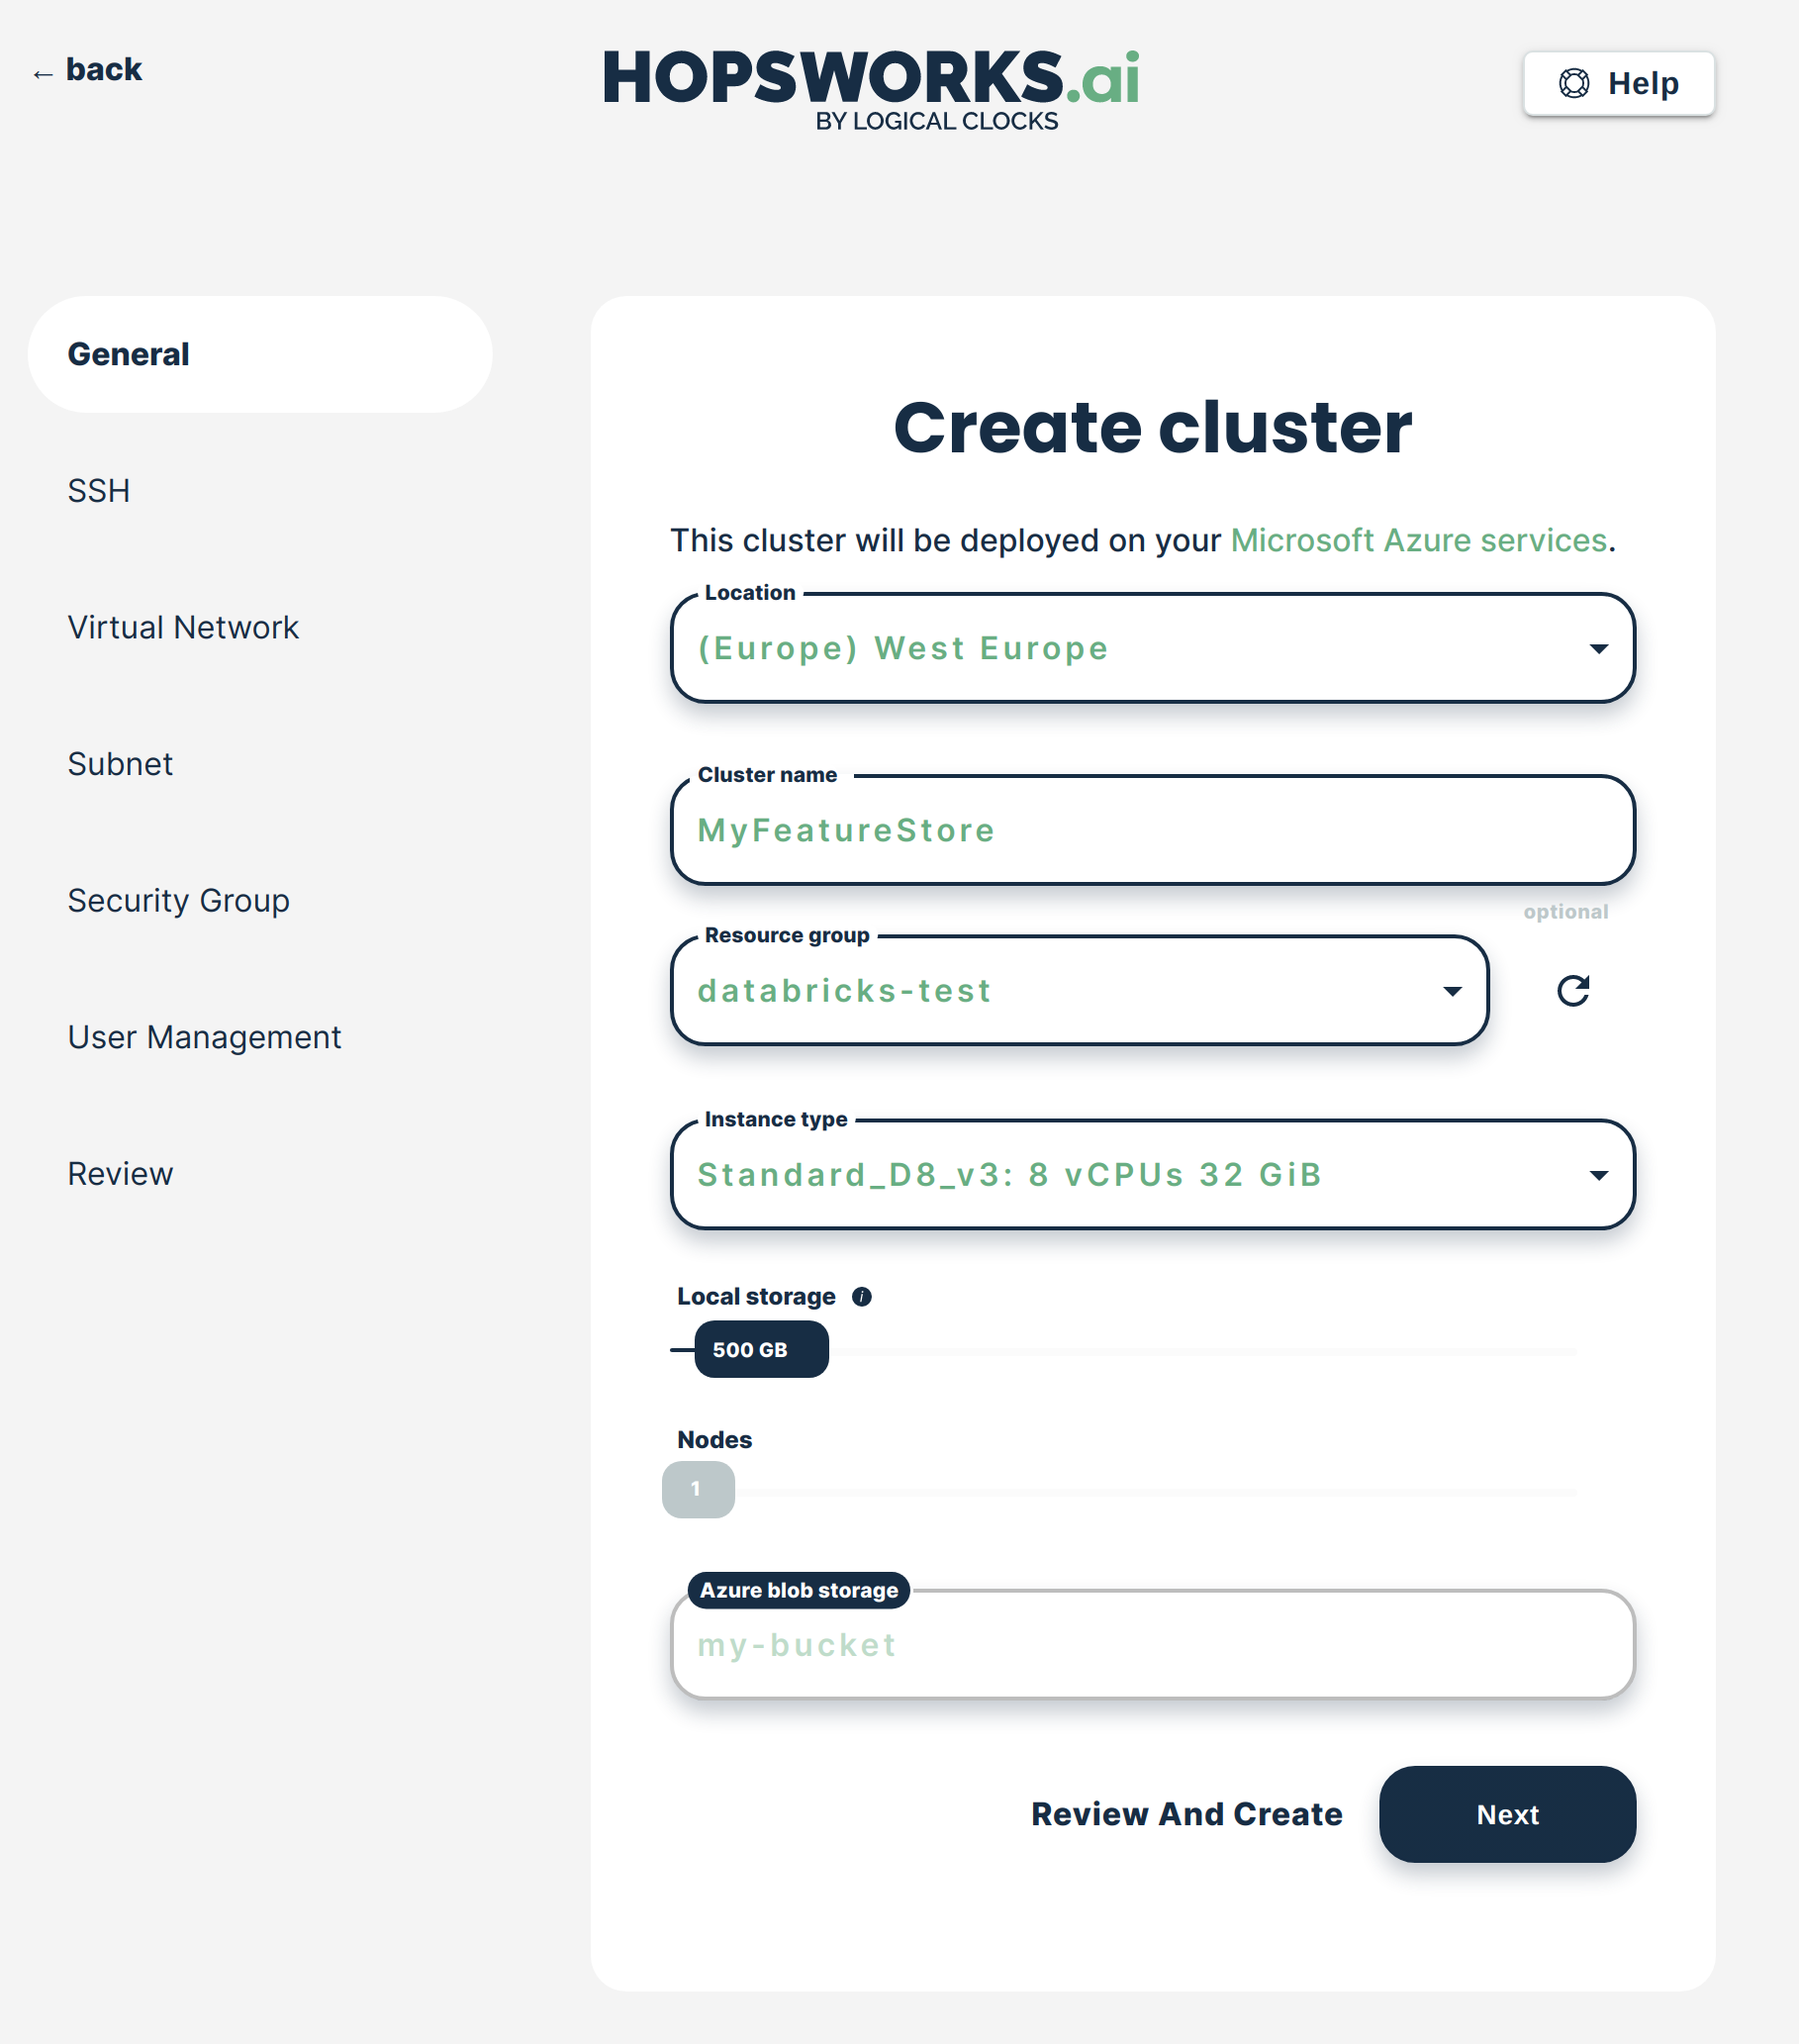
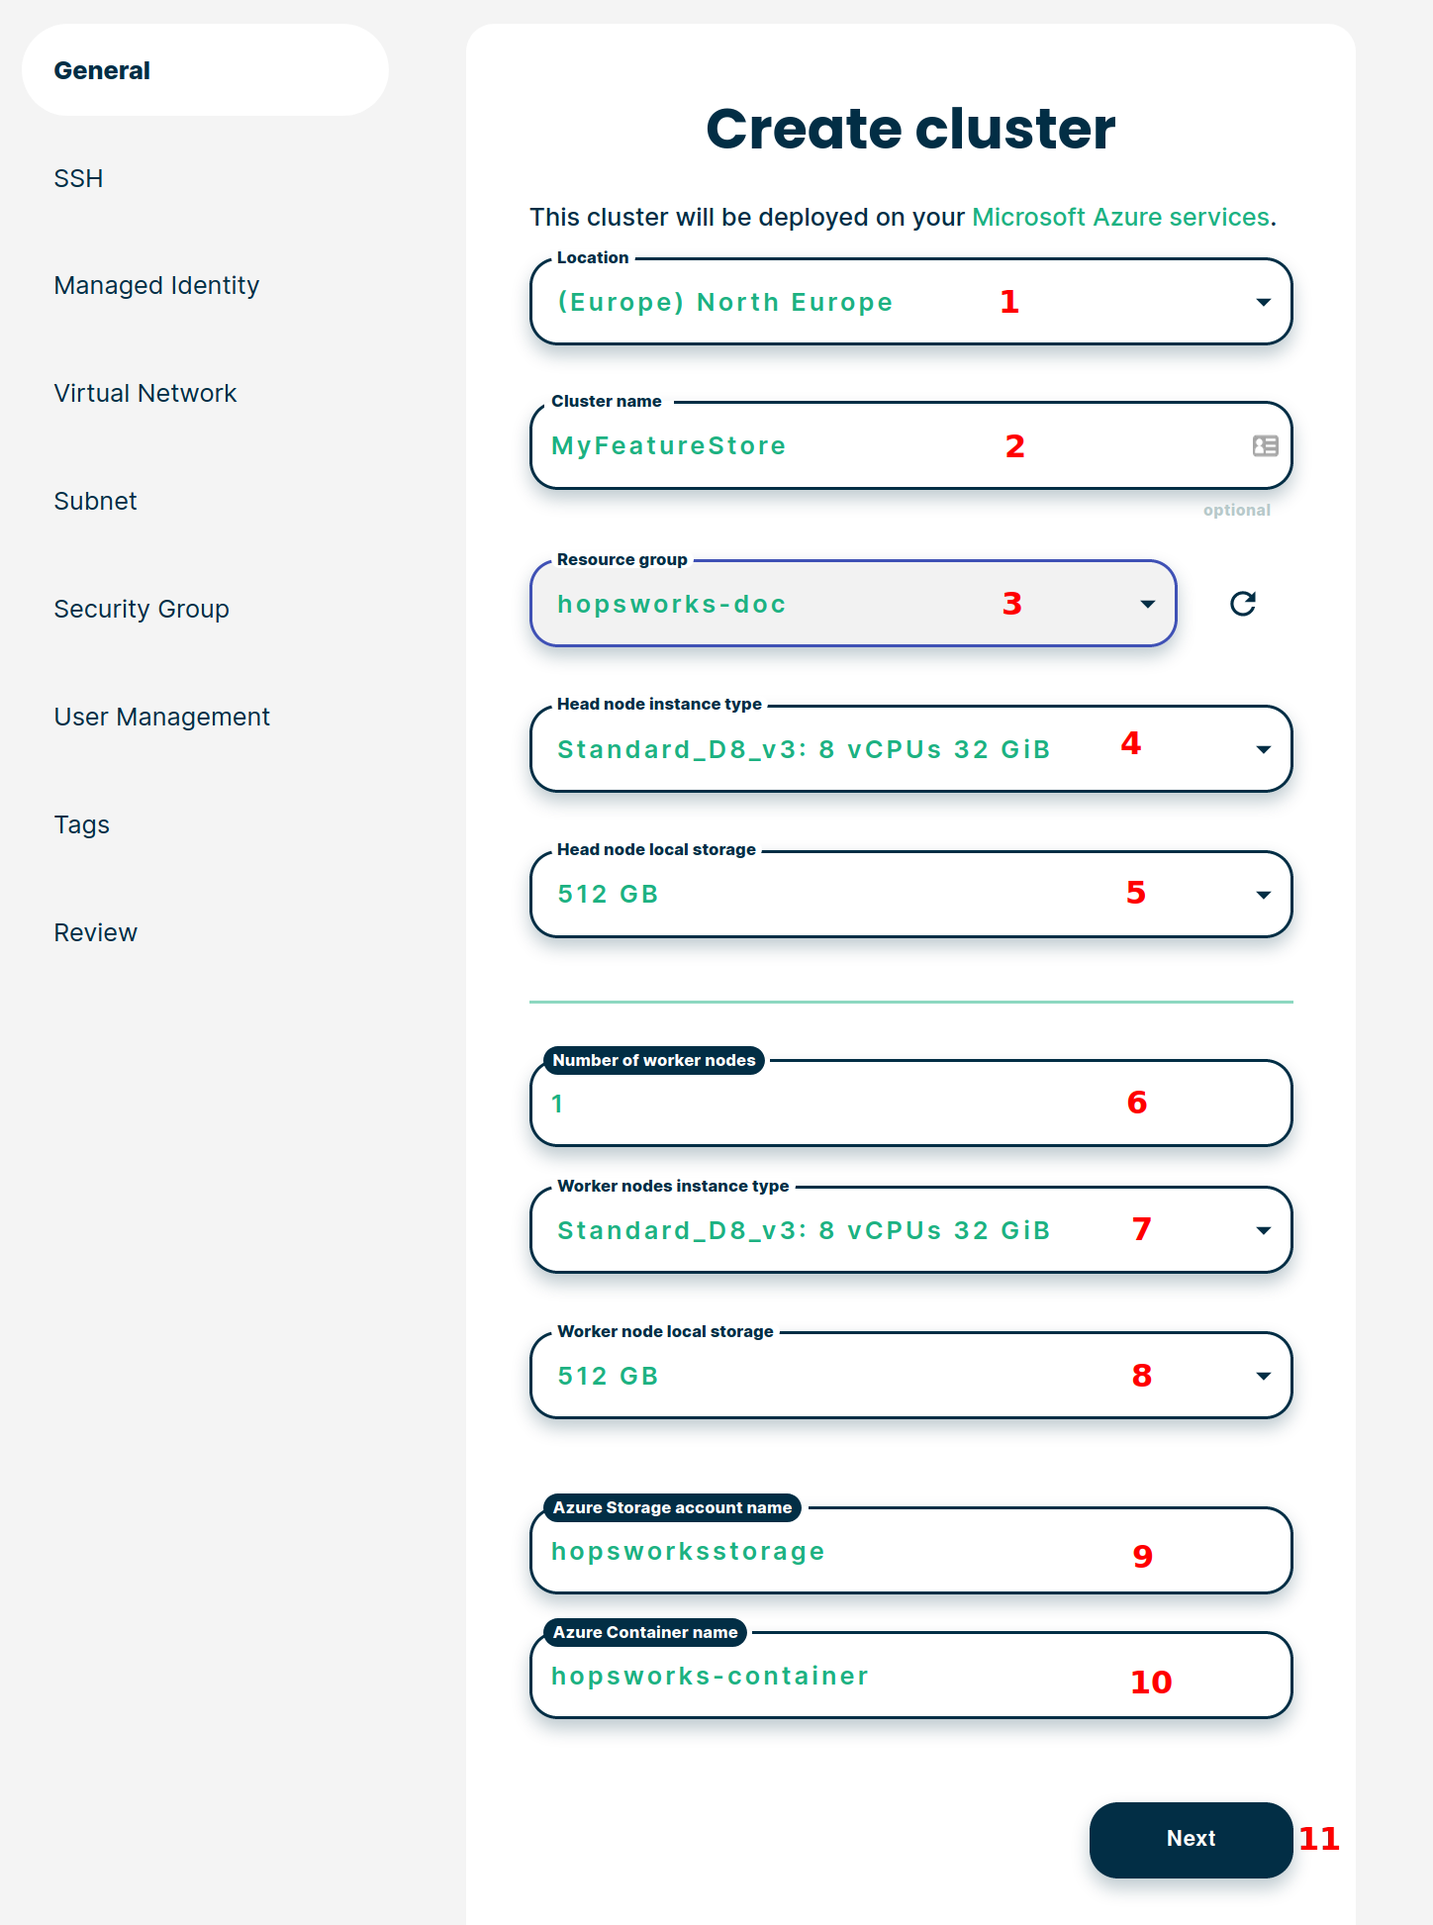
fix getting started for Azure

diff --git a/docs/getting_started/hopsworksai/guides/getting_started_azure.rst b/docs/getting_started/hopsworksai/guides/getting_started_azure.rst
@@ -10,7 +10,7 @@ SageMaker and KubeFlow. This guide shows how to set up Hopsworks.ai with your or
 .. contents:: :local:
 
 Step 1: Connecting your Azure account
------------------------------------
+-------------------------------------
 
 Hopsworks.ai deploys Hopsworks clusters to your Azure account. To enable this, you have to
 create a service principal and a custom role for Hopsworks.ai granting access
@@ -173,7 +173,86 @@ Congratulations, you have successfully connected you Azure account to Hopsworks.
     :align: center
     :figclass: align-center
 
-Step 2: Deploying a Hopsworks cluster
+Step 2: Creating and configuring a storage
+------------------------------------------
+The hopsworks clusters deployed by hopsworks.ai store their data in a container in your Azure accoutn.
+To enable this you need to create a storage account and a User Assigned Managed Identity to give the hopsworks cluster access to the storage.
+
+Step 2.1: Creating a User Assigned Managed Identity
+~~~~~~~~~~~~~~~~~~~~~~~~~~~~~~~~~~~~~~~~~~~~~~~~~~~
+Proceed to the Azure Portal and open the Resource Group that you want to use for Hopsworks.ai. Click on *Add*.
+
+.. _add-to-resource-group.png: ../../../_images/add-to-resource-group.png
+.. figure:: ../../../imgs/hopsworksai/add-to-resource-group.png
+    :alt: Add to resource group.
+    :target: `add-to-resource-group.png`_
+    :align: center
+    :figclass: align-center
+    :borderWidth: 0.5
+    :borderColor:"black"
+
+
+Search for *User Assigned Managed Identity* and click on it.
+
+.. _search-user-assigned-identity.png: ../../../_images/search-user-assigned-identity.png
+.. figure:: ../../../imgs/hopsworksai/search-user-assigned-identity.png
+    :alt: Search User Assigned Managed Identity.
+    :target: `search-user-assigned-identity.png`_
+    :align: center
+    :figclass: align-center
+
+Click on *Create*. Then, select the Location you want to use and give a name to the identity. Click on *Review + create*. Finally click on *Create*.
+
+.. _create-user-assigned-identity.png: ../../../_images/create-user-assigned-identity.png
+.. figure:: ../../../imgs/hopsworksai/create-user-assigned-identity.png
+    :alt: Create a User Assigned Managed Identity.
+    :target: `create-user-assigned-identity.png`_
+    :align: center
+    :figclass: align-center
+
+Step 2.2: Creating a Storage account
+~~~~~~~~~~~~~~~~~~~~~~~~~~~~~~~~~~~~
+Proceed to the Azure Portal and open the Resource Group that you want to use for Hopsworks.ai. Click on *Add*.
+
+.. _add-to-resource-group2.png: ../../../_images/add-to-resource-group.png
+.. figure:: ../../../imgs/hopsworksai/add-to-resource-group.png
+    :alt: Add to resource group.
+    :target: `add-to-resource-group.png`_
+    :align: center
+    :figclass: align-center
+
+Search for *Storage account* and click on it.
+
+.. _search-storage-account.png: ../../../_images/search-storage-account.png
+.. figure:: ../../../imgs/hopsworksai/search-user-assigned-identity.png
+    :alt: Search Storage Account Identity.
+    :target: `search-storage-account.png`_
+    :align: center
+    :figclass: align-center
+
+Click on *Create*. Then, give a name to your storage account, select the Location you want to use and click on *Review + create*. Finally click on *Create*.
+
+.. _create-storage-account.png: ../../../_images/create-storage-account.png
+.. figure:: ../../../imgs/hopsworksai/create-storage-account.png
+    :alt: Create a Storage Account.
+    :target: `create-storage-account.png`_
+    :align: center
+    :figclass: align-center
+
+Step 2.3: Give the Managed Identity access to the storage
+~~~~~~~~~~~~~~~~~~~~~~~~~~~~~~~~~~~~~~~~~~~~~~~~~~~~~~~~~
+Proceed to the Storage Account you just created and click on *Access Control (IAM)* (1). Click on *Add* (2), then click on *Add role assignment* (3).
+In *Role* select *Storage Blob Data Owner* (4). In *Assign access to* select *User assigned managed identity* (5). Select the identity you created in step 2.1 (6).
+Click on *Save* (7).
+
+.. _add-role-to-storage.png: ../../../_images/add-role-to-storage.png
+.. figure:: ../../../imgs/hopsworksai/add-role-to-storage.png
+    :alt: Add role assignment to strage.
+    :target: `add-role-to-storage.png`_
+    :align: center
+    :figclass: align-center
+
+Step 3: Deploying a Hopsworks cluster
 -------------------------------------
 
 In Hopsworks.ai, select *Create cluster*:
@@ -185,7 +264,22 @@ In Hopsworks.ai, select *Create cluster*:
     :align: center
     :figclass: align-center
 
-Select the *Location*, *Resource Group*, *Instance type* and *Local storage* size, name the cluster and press *Next*:
+Select the *Location* in which you want your cluster to run (1), name your cluster (2) and select the *Resource Group* (3) in which you created your *storage account* and *user assigned managed identity* (see above).
+
+Select the *Instance type* (4) and *Local storage* (5) size for the cluster *Head node*. 
+
+Select the number of workers you want to start the cluster with (6).
+Select the *Instance type* (7) and *Local storage* size (8) for the *worker nodes*.
+
+.. note::
+    It is possible to add or remove workers once the cluster is running.
+
+Enter the name of the *storage account* (9) you created above in *Azure Storage account name* and give a name to the container in which the data wil be stored in *Azure Container name* (10).
+
+.. note::
+    You can choose to use a container already existing in you *storage account* by using the name of this container, but you need to fist make sure that this container is empty.
+
+Press *Next* (11):
 
 .. _connect-azure-11.png: ../../../_images/connect-azure-11.png
 .. figure:: ../../../imgs/hopsworksai/connect-azure-11.png
@@ -194,12 +288,21 @@ Select the *Location*, *Resource Group*, *Instance type* and *Local storage* siz
     :align: center
     :figclass: align-center
 
-Select the *SSH* that you want to use to access cluster instances:
+Select the *SSH key* that you want to use to access cluster instances:
 
 .. _connect-azure-12.png: ../../../_images/connect-azure-12.png
 .. figure:: ../../../imgs/hopsworksai/connect-azure-12.png
     :alt: Choose SSH key
     :target: `connect-azure-12.png`_
+    :align: center
+    :figclass: align-center
+
+Select the *User assigned managed identity* that you created above:
+
+.. _connect-azure-identity.png: ../../../_images/connect-azure-identity.png
+.. figure:: ../../../imgs/hopsworksai/connect-azure-identity.png
+    :alt: Choose the User assigned managed identity.
+    :target: `connect-azure-identity.png`_
     :align: center
     :figclass: align-center
 
@@ -231,7 +334,7 @@ Select the *Security group* or choose to automatically create a new one:
     :figclass: align-center
 
 Choose the user management you want. Select *Managed* to manage users via Hopsworks.ai, *LDAP* to integrate with your
-organization's LDAP or *Disabled* to manage users manually from within Hopsworks:
+organization's LDAP/ActiveDirectory server or *Disabled* to manage users manually from within Hopsworks:
 
 .. _connect-azure-16.png: ../../../_images/connect-azure-16.png
 .. figure:: ../../../imgs/hopsworksai/connect-azure-16.png
@@ -249,7 +352,7 @@ Review all information and select *Create*:
     :align: center
     :figclass: align-center
 
-The cluster will start. This might take a couple of minutes:
+The cluster will start. This will take a few minutes:
 
 .. _booting.png: ../../../_images/booting.png
 .. figure:: ../../../imgs/hopsworksai/booting.png
@@ -259,7 +362,7 @@ The cluster will start. This might take a couple of minutes:
     :figclass: align-center
 
 As soon as the cluster has started, you will be able to log in to your new Hopsworks cluster with the username
-and password provided. You will also able to stop or terminate the cluster.
+and password provided. You will also able to stop, restart or terminate the cluster.
 
 .. _running.png: ../../../_images/running.png
 .. figure:: ../../../imgs/hopsworksai/running.png
@@ -271,7 +374,7 @@ and password provided. You will also able to stop or terminate the cluster.
 Step 3: Outside Access to the Feature Store
 -------------------------------------------
 
-By default, only the Hopsworks UI is made available to clients on external networks, like the Internet.
+By default, only the Hopsworks REST API (and UI) is accessible by clients on external networks, like the Internet.
 To integrate with external platforms and access APIs for services such as the Feature Store, you have to open the service's ports.
 
 Open ports by going to *Services* tab, selecting a service and pressing *Update*. This will update the *Security Group* attached to the 

diff --git a/docs/getting_started/hopsworksai/guides/databricks_quick_start_azure.rst b/docs/getting_started/hopsworksai/guides/databricks_quick_start_azure.rst
@@ -105,8 +105,7 @@ The peering should now be *Updating*:
     :align: center
     :figclass: align-center
 
-Wait for the peering to show up as *Connected*. You should now be able to reach the Feature Store from
-Databricks:
+Wait for the peering to show up as *Connected*. There should now be bi-directional network connectivity between the Feature Store and Databricks:
 
 .. _azure-databricks-17.png: ../../../_images/azure-databricks-17.png
 .. figure:: ../../../imgs/hopsworksai/azure-databricks-17.png
@@ -122,8 +121,8 @@ Databricks:
 Step 3: Connecting to the Feature Store from Databricks
 -------------------------------------------------------
 
-Step 3.1: Installing the hops SDK
-~~~~~~~~~~~~~~~~~~~~~~~~~~~~~~~~~
+Step 3.1: Installing the hops library
+~~~~~~~~~~~~~~~~~~~~~~~~~~~~~~~~~~~~~
 
 .. include:: ../../../featurestore/integrations/guides/databricks.rst
   :start-after: .. include-4-start

diff --git a/docs/getting_started/hopsworksai/guides/getting_started.rst b/docs/getting_started/hopsworksai/guides/getting_started.rst
@@ -206,7 +206,7 @@ Configure the cluster by selecting the location, instance type and optionally th
 subnet and security group. Select *Deploy*.
 
 .. note::
-    We recommend that you always configure an SSH key under advanced options to ensure you can troubleshoot the cluster if necessary.
+    We recommend that you always configure a SSH key under advanced options to ensure you can troubleshoot the cluster if necessary.
 
 .. include:: ../../../getting_started/hopsworksai/guides/s3_permissions.rst
 
